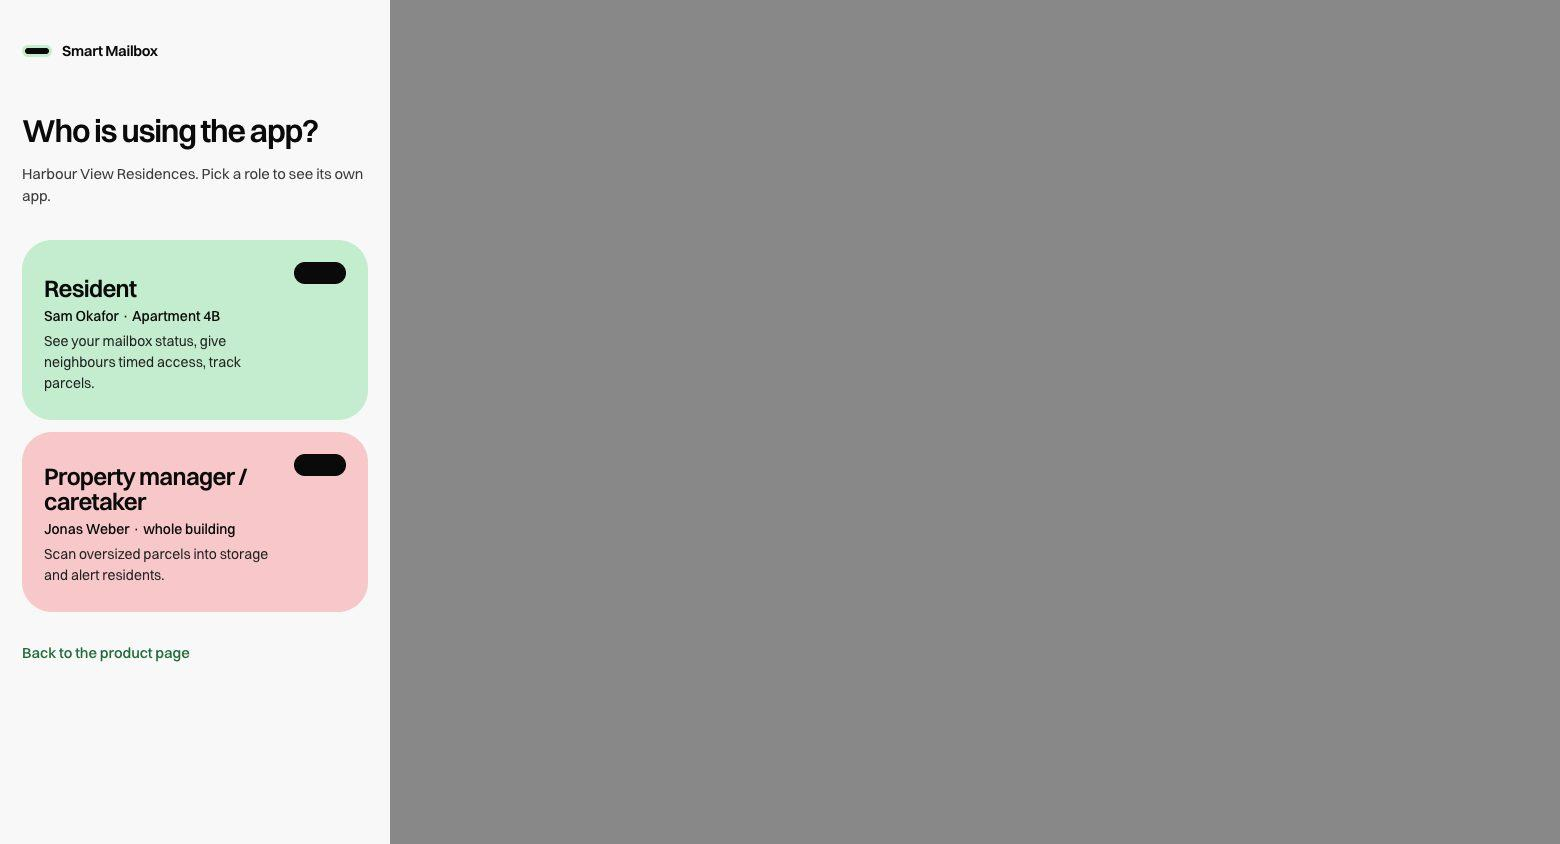
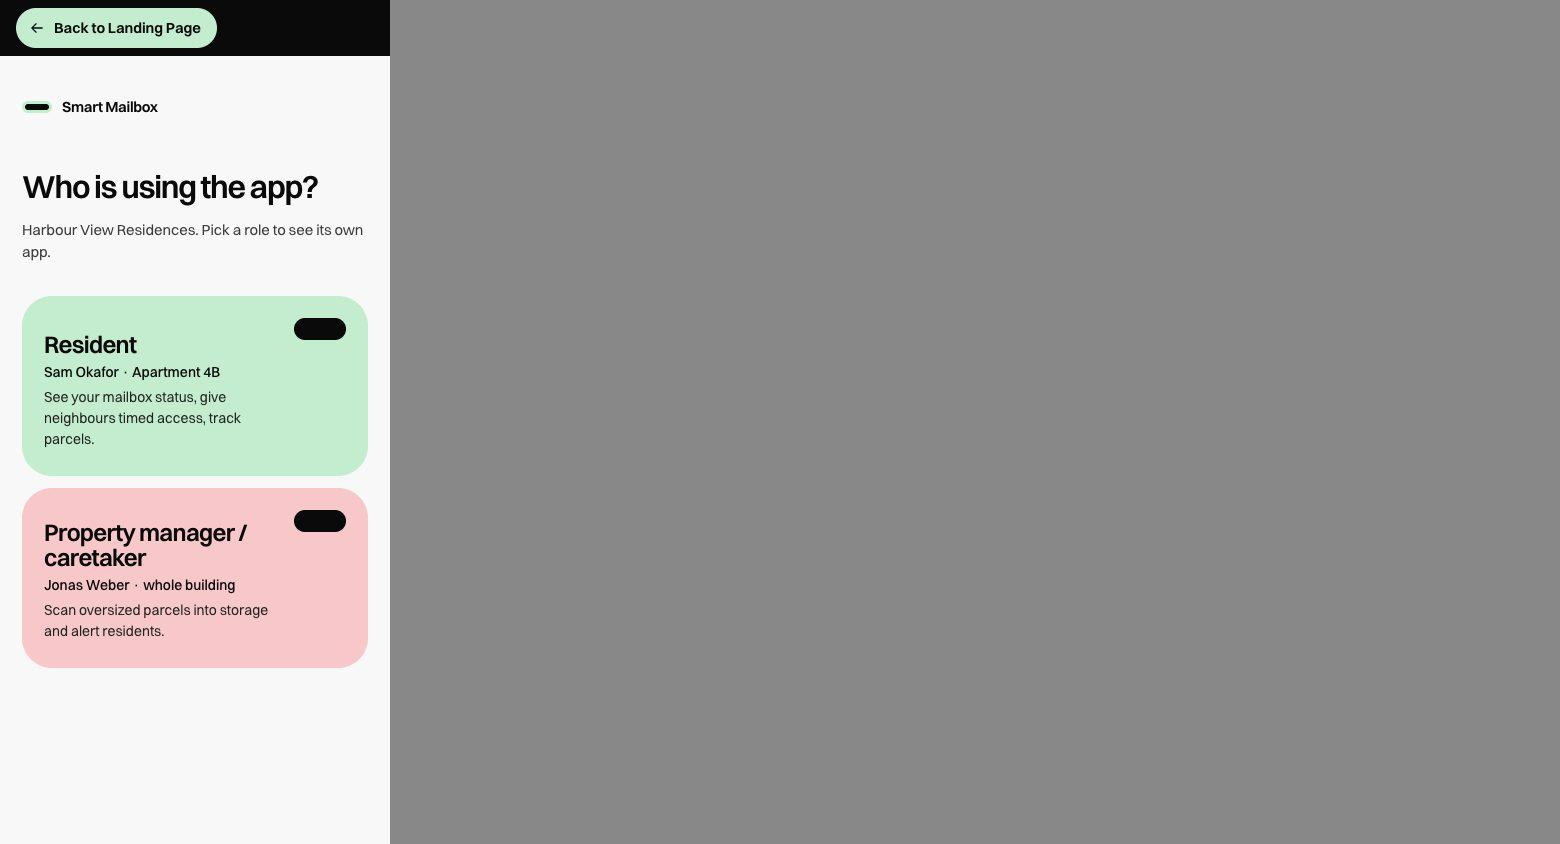
fixed role choice + mobile version return button

Changed region(s): [[0.0, 0.1232, 0.2462, 0.8009], [0.0, 0.0, 0.2769, 0.0924]]

diff --git a/css/demo.css b/css/demo.css
@@ -52,6 +52,7 @@ body { background: var(--surface); overflow: hidden; }
 
 .device {
   position: relative;
+  display: flex; flex-direction: column;
   width: 400px;
   height: min(860px, calc(100svh - 48px));
   background: var(--app-bg);
@@ -65,10 +66,11 @@ body { background: var(--surface); overflow: hidden; }
   .stage { display: block; padding: 0; height: 100%; }
   .guide { display: none; }
   .device { width: 100%; height: 100%; height: 100svh; border: 0; border-radius: 0; }
+
 }
 
 /* ---------- app frame ---------- */
-.app { height: 100%; display: flex; flex-direction: column; font-size: var(--t-size); position: relative; }
+.app { flex: 1; min-height: 0; display: flex; flex-direction: column; font-size: var(--t-size); position: relative; }
 .app[data-mode="none"] { overflow-y: auto; }
 .bar { display: flex; align-items: center; justify-content: space-between; gap: 12px; padding: 22px 20px 12px; }
 .bar__title { display: flex; align-items: center; gap: 12px; min-width: 0; }
@@ -111,12 +113,8 @@ body { background: var(--surface); overflow: hidden; }
 .role__name { font-size: 24px; font-weight: 600; letter-spacing: -0.03em; line-height: 1.05; padding-right: 60px; }
 .role__who { font-size: 14px; font-weight: 500; }
 .role__does { font-size: 14px; max-width: 30ch; color: #222; }
-.pick__back { margin-top: 12px; color: var(--ink); }
-@media (min-width: 901px) { .pick__back { display: none; } }
 .role__go { position: absolute; top: 22px; right: 22px; width: 52px; height: 22px; border-radius: var(--slot); background: var(--ink); }
-@media (hover: hover) and (pointer: fine) { .role:hover .pick__back { margin-top: 12px; color: var(--ink); }
-@media (min-width: 901px) { .pick__back { display: none; } }
-.role__go { background: var(--accent); } }
+@media (hover: hover) and (pointer: fine) { .role:hover .role__go { background: var(--accent); } }
 
 /* ---------- resident home ---------- */
 .status-card { border-radius: 30px; padding: 22px 22px 24px; display: grid; gap: 8px; transition: background-color 400ms ease; }
@@ -333,3 +331,23 @@ body { background: var(--surface); overflow: hidden; }
 }
 .tab:active, .chip:active, .shelf-btn:active, .seg:active span { transform: scale(0.96); }
 .tab, .chip, .shelf-btn, .seg span { transition: transform var(--t-press) var(--ease-out), background-color var(--t-hover) ease, color var(--t-hover) ease; }
+
+/* ---------- mobile: back to the landing page ---------- */
+.backbar {
+  display: none; flex: none; align-items: center;
+  padding: calc(8px + env(safe-area-inset-top)) 16px 8px;
+  background: var(--ink);
+}
+.backbar a {
+  display: inline-flex; align-items: center; gap: 8px; min-height: 40px; padding: 0 16px 0 12px;
+  border-radius: var(--slot); background: var(--mint); color: var(--ink);
+  font-size: 15px; font-weight: 600; text-decoration: none;
+  transition: transform var(--t-press) var(--ease-out), background-color var(--t-hover) ease;
+}
+.backbar a:active { transform: scale(0.97); }
+.backbar svg { width: 18px; height: 18px; }
+@media (hover: hover) and (pointer: fine) { .backbar a:hover { background: var(--mint-deep); } }
+@media (max-width: 900px) {
+  .backbar { display: flex; }
+  .push { top: calc(64px + env(safe-area-inset-top)); }
+}

diff --git a/js/demo.js b/js/demo.js
@@ -96,18 +96,19 @@
   }
 
   let S;
+  // Demo data (parcels, codes, history) is kept between visits; the role never is.
+  // Every visit starts on the role choice.
   const load = () => {
     try { const raw = localStorage.getItem(KEY); if (raw) return JSON.parse(raw); } catch (e) { /* storage unavailable */ }
     return null;
   };
-  const save = () => { try { localStorage.setItem(KEY, JSON.stringify(S)); } catch (e) { /* storage unavailable */ } };
-  S = load() || seed();
-
-  const params = new URLSearchParams(location.search);
-  if (params.get('role') === 'caretaker' || params.get('role') === 'resident') {
-    S.role = params.get('role');
-    S.tab = S.role === 'caretaker' ? 'overview' : 'home';
-  }
+  const save = () => {
+    try {
+      const { role, tab, sheet, scan, filter, shelfSel, ...data } = S;
+      localStorage.setItem(KEY, JSON.stringify(data));
+    } catch (e) { /* storage unavailable */ }
+  };
+  S = Object.assign(load() || seed(), { role: null, tab: 'home', sheet: false, scan: null, filter: 'all', shelfSel: null });
 
   const log = (kind, text, who) => { S.log.unshift({ id: uid(), t: Date.now(), kind, text, who }); };
   const done = (task) => { if (!S.done[task]) { S.done[task] = Date.now(); } };
@@ -204,7 +205,6 @@
         '<span class="role__name">Property manager / caretaker</span><span class="role__who">Jonas Weber · whole building</span>' +
         '<span class="role__does">Scan oversized parcels into storage and alert residents.</span>' +
         '<span class="role__go" aria-hidden="true"></span></button>' +
-      '<a class="link pick__back" href="index.html">Back to the product page</a>' +
       '</div>';
   }
 

diff --git a/demo.html b/demo.html
@@ -27,6 +27,9 @@
     </aside>
 
     <div class="device">
+      <nav class="backbar" aria-label="Site">
+        <a href="index.html"><svg class="ico" viewBox="0 0 24 24" aria-hidden="true" focusable="false"><path d="M19 12H5M11 6l-6 6 6 6"/></svg>Back to Landing Page</a>
+      </nav>
       <div class="app" id="app" aria-live="polite">
         <noscript><p class="pad">This prototype needs JavaScript to run.</p></noscript>
       </div>

diff --git a/index.html b/index.html
@@ -354,8 +354,7 @@
         <li><a href="#faq">FAQ</a></li>
       </ul>
       <ul>
-        <li><a href="demo.html">Resident demo</a></li>
-        <li><a href="demo.html?role=caretaker">Caretaker demo</a></li>
+        <li><a href="demo.html">Open the demo</a></li>
       </ul>
       <div class="footer__contact">
         <p>Team Smart Mailbox<br>ICT Business Management, 2026</p>
